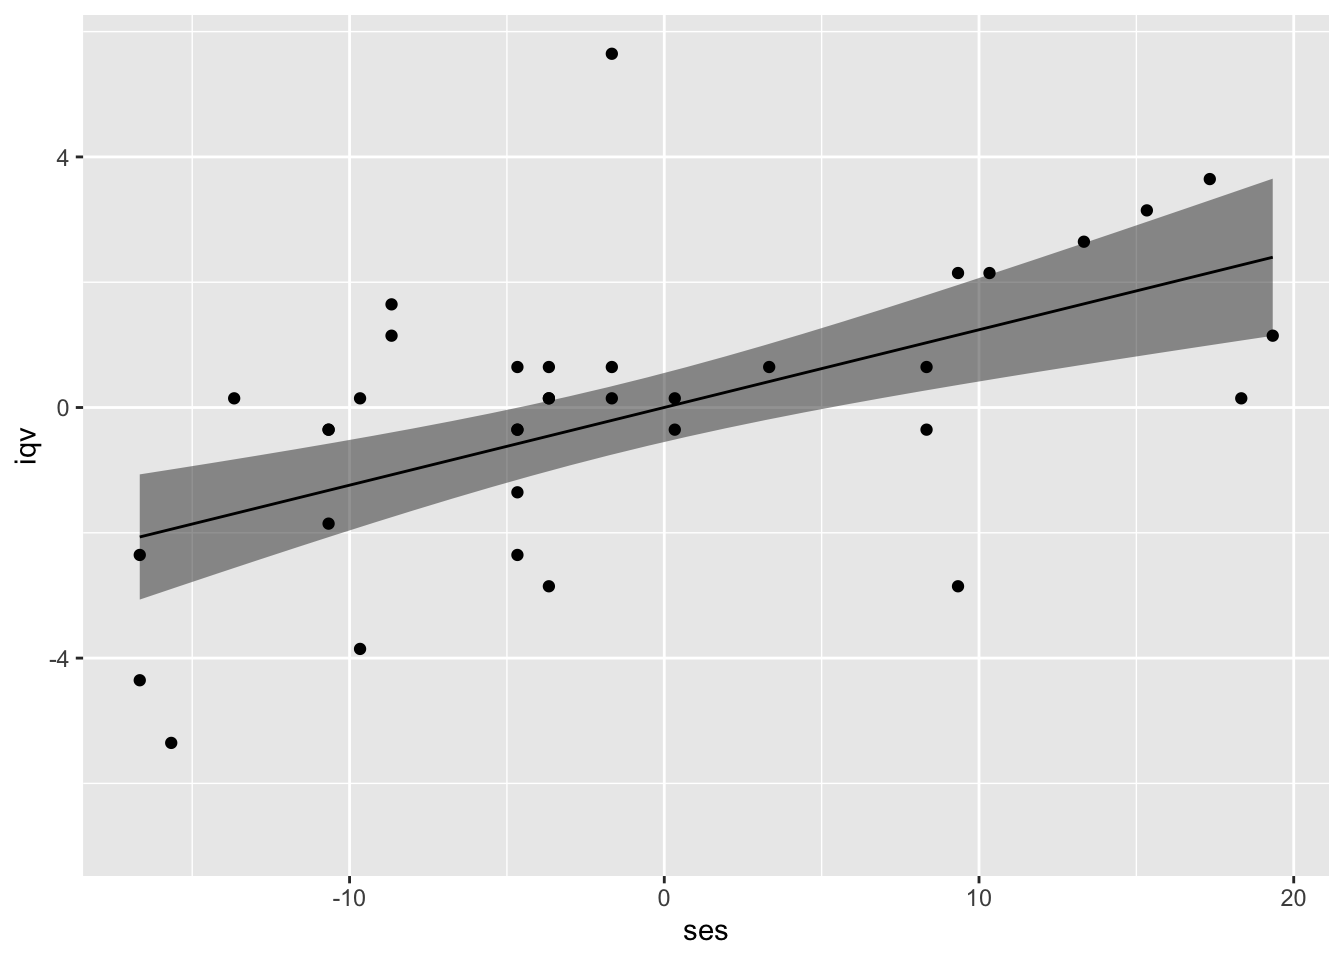
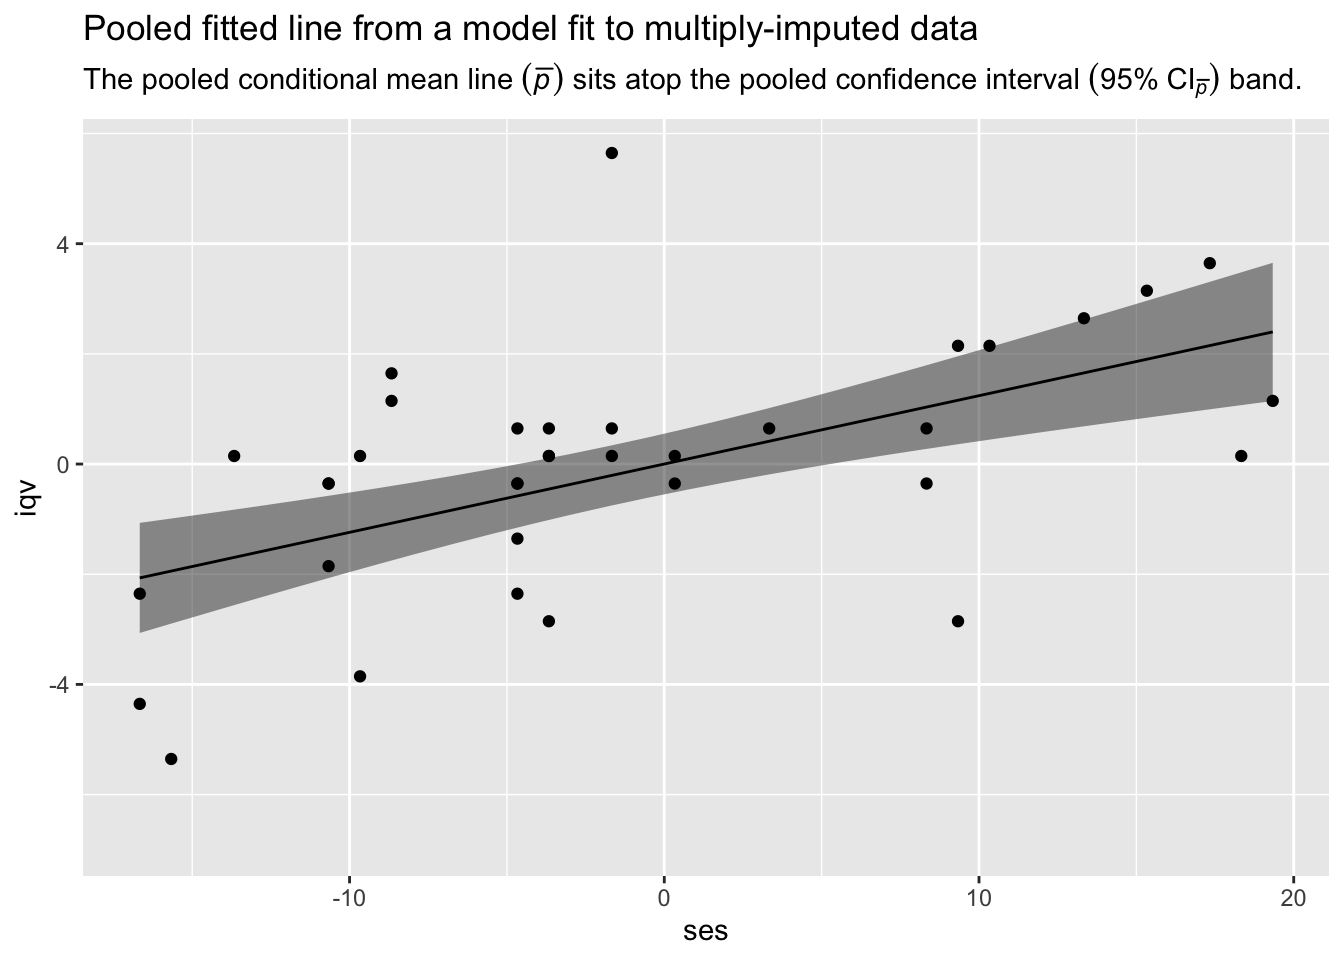
plotmath

diff --git a/content/post/2021-10-21-if-you-fit-a-model-with-multiply-imputed-data-you-can-still-plot-the-line/index.html b/content/post/2021-10-21-if-you-fit-a-model-with-multiply-imputed-data-you-can-still-plot-the-line/index.html
@@ -363,7 +363,7 @@ fitted_lines %&gt;%
 ##  9  -6.74  -0.835 0.100  3.42e-32 0.100  0.316
 ## 10  -5.49  -0.681 0.0908 5.48e-33 0.0908 0.301
 ## # … with 20 more rows</code></pre>
-<p>Now we finally have both <span class="math inline">\(\bar p\)</span> and <span class="math inline">\(V_{\bar p}\)</span> for each desired level of <code>ses</code>, we can use the conventional normal-theory approach to compute 95% confidence intervals.</p>
+<p>Now we finally have both <span class="math inline">\(\bar p\)</span> and <span class="math inline">\(V_{\bar p}\)</span> for each desired level of <code>ses</code>, we can use the conventional normal-theory approach to compute the pooled 95% confidence intervals.</p>
 <pre class="r"><code># this time we&#39;ll save the results
 fitted_lines &lt;- fitted_lines %&gt;% 
   group_by(ses) %&gt;% 
@@ -372,6 +372,7 @@ fitted_lines &lt;- fitted_lines %&gt;%
             v_b     = sum(fit - fit_bar)^2 / (m - 1),
             v_p     = v_w + v_b * (1 + (1 / m)),
             se_p    = sqrt(v_p)) %&gt;% 
+  # use the _p suffix to indicate these are pooled
   mutate(lwr_p = fit_bar - se_p * 1.96,
          upr_p = fit_bar + se_p * 1.96) 
 
@@ -400,7 +401,9 @@ glimpse(fitted_lines)</code></pre>
   # add the observed data for good measure
   geom_point(data = b_small,
              aes(y = iqv)) +
-  ylab(&quot;iqv&quot;)</code></pre>
+  labs(title = &quot;Pooled fitted line from a model fit to multiply-imputed data&quot;,
+       subtitle = expression(&quot;The pooled conditional mean line &quot;*(bar(italic(p)))*&quot; sits atop the pooled confidence interval &quot;*(95*&#39;%&#39;*~CI[bar(italic(p))])*&#39; band.&#39;),
+       y = &quot;iqv&quot;)</code></pre>
 <p><img src="{{< blogdown/postref >}}index_files/figure-html/unnamed-chunk-20-1.png" width="672" /></p>
 <p>There it is, friends. We have the pooled fitted line and its pooled 95% confidence interval band from our model fit to multiply-imputed data. Until the day that Stef van Buuren and friends get around to building this functionality into <strong>mice</strong>, our realization in <strong>R</strong> code of Andrew Miles’s <em>Predict Then Combine</em> (PC) approach has you covered.</p>
 </div>
